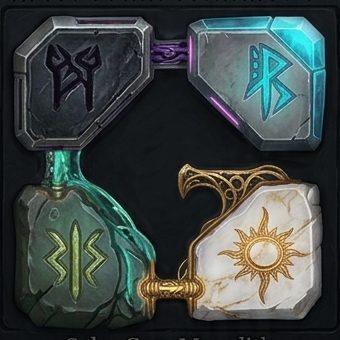
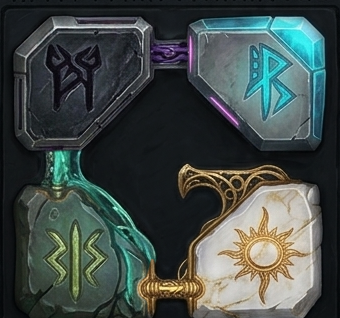
feat: GlyphsHero joins the figure pipeline, thumb watermark cropped and the test runner capture extracted

diff --git a/scripts/extract-figures.py b/scripts/extract-figures.py
@@ -434,6 +434,40 @@ FIGURES = [
             "side door. One line to change if he wants it."
         ),
     },
+    # The GlyphsHero entries, added 2026-08-07: its first figures in this
+    # pipeline. The live thumb was hand-copied in before this project had an
+    # `assets/` folder here; this pass gives it one, the same provenance
+    # discipline Rollhaus and FerMentor already have.
+    {
+        "out": "public/figures/glyphshero-runes.png",
+        "project": "glyphshero",
+        "png": "glyphshero-runes.png",
+        "crop": [0, 0, 340, 318],
+        "width": 340,
+        "why": (
+            "The project-grid card and detail-page thumb, generated by Leonid's "
+            "own prompts. Copied in from the game repo's Assets/Art/G.png, the "
+            "same 340x340 file already live on the site. The crop drops the "
+            "bottom 22px, a generator watermark strip, and stops there: the "
+            "source's softness at this resolution is a known gap PRODUCT.md "
+            "records, and this pass does not claim to fix it."
+        ),
+    },
+    {
+        "out": "public/figures/glyphshero-test-runner.png",
+        "project": "glyphshero",
+        "png": "TestRunner.png",
+        "crop": [0, 0, 986, 749],
+        "width": 986,
+        "why": (
+            "The Unity Test Runner, EditMode tab, 213 of 213 tests green across "
+            "six module groups: Combat, Inventory, Pawns, Statistics, UI, "
+            "Utility. Leonid's own capture, provided 2026-08-07, and the one "
+            "step the agent cannot do itself, since the Runner only runs inside "
+            "the Editor. Full-bounds crop, a no-op: the capture is already "
+            "framed and native resolution is the point."
+        ),
+    },
 ]
 
 # Rejected while scanning, recorded so the next session does not re-derive them:
